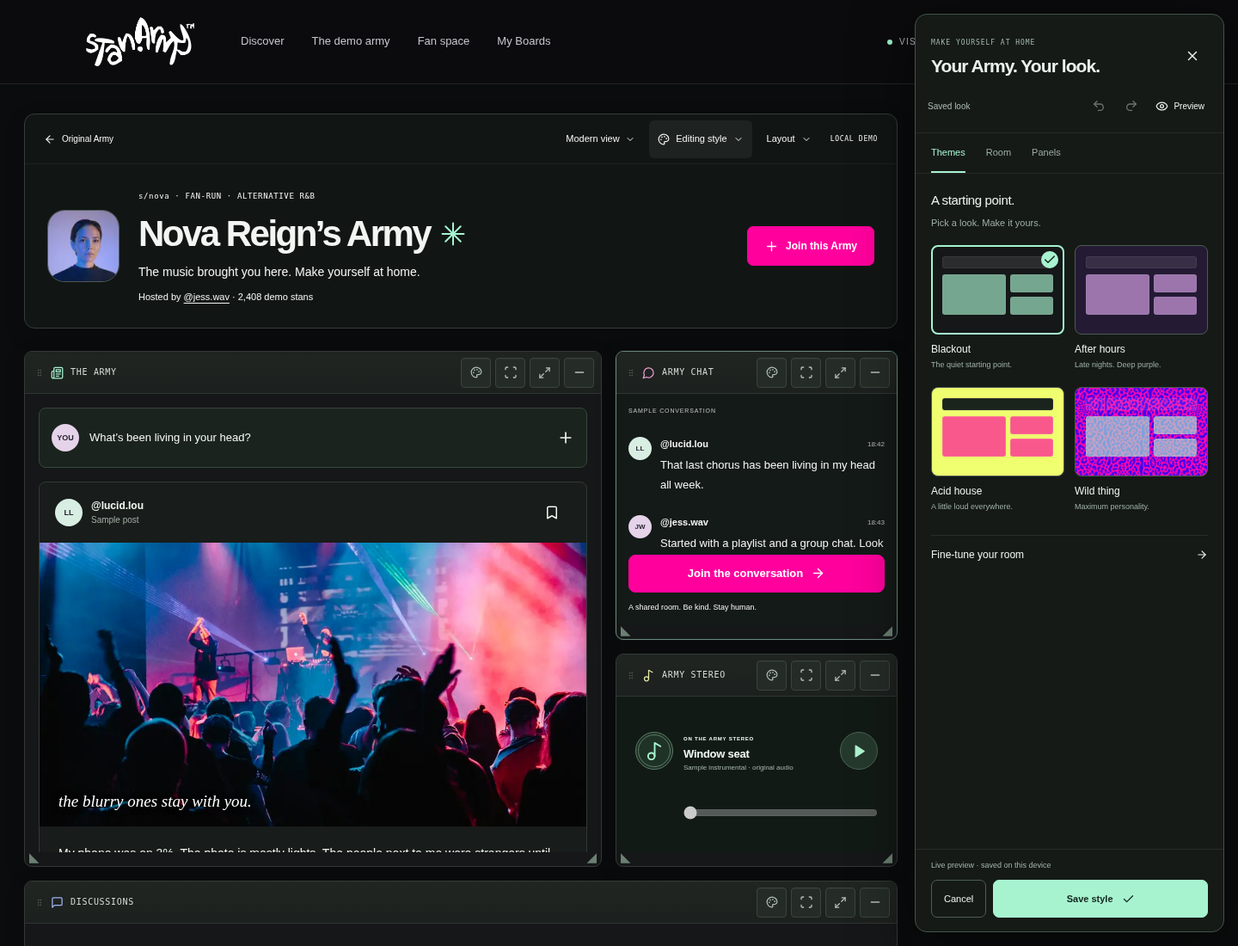
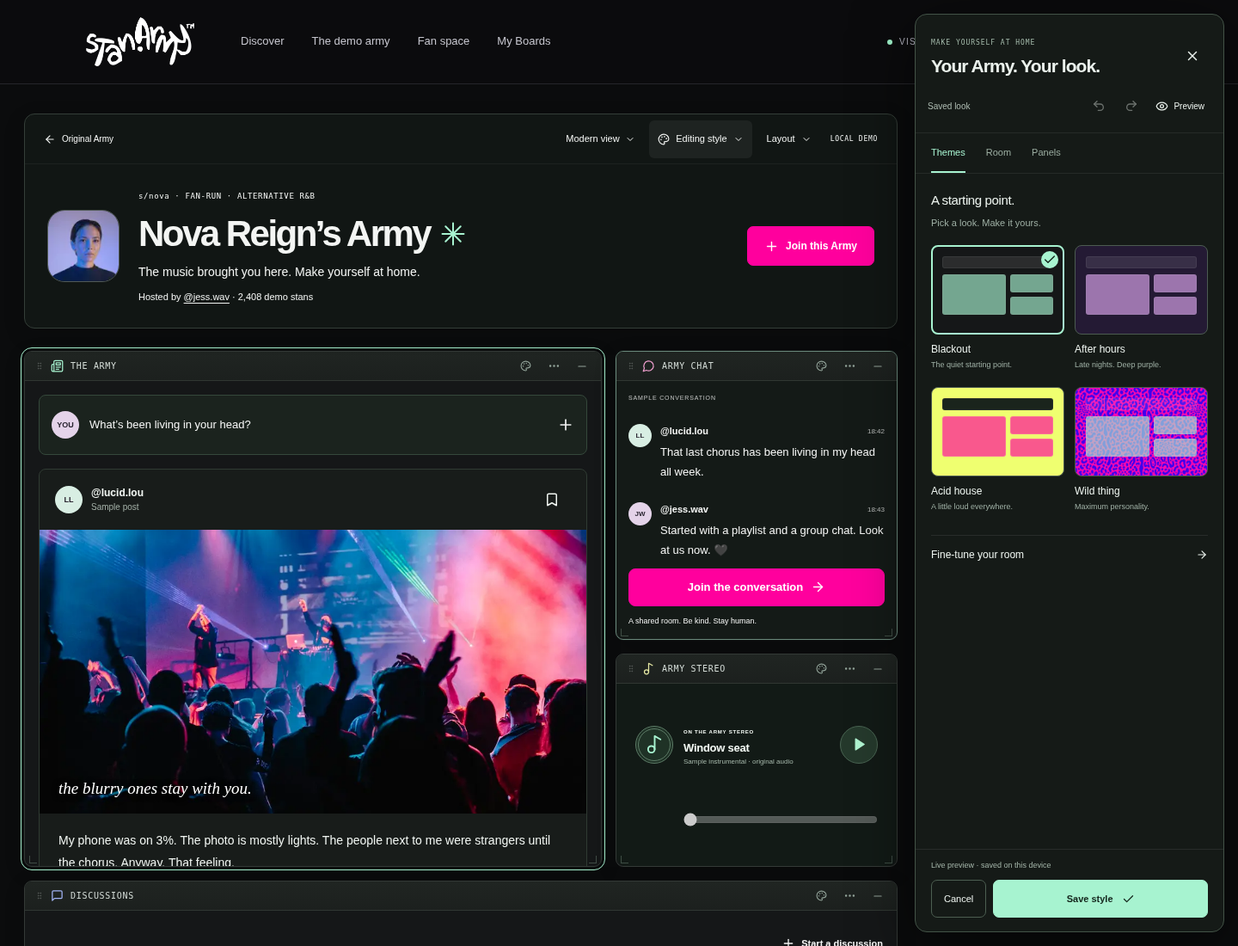
Slim panel controls and make individual panel styling directly accessible

diff --git a/src/components/army-desktop-playground.tsx b/src/components/army-desktop-playground.tsx
@@ -4,7 +4,7 @@ import Image from "next/image";
 import Link from "next/link";
 import { useEffect, useMemo, useRef, useState, useSyncExternalStore } from "react";
 import type { CSSProperties, KeyboardEvent, PointerEvent } from "react";
-import { ArrowDown, ArrowLeft, ArrowUpRight, Check, ChevronDown, GripVertical, Maximize2, MessageCircle, MessageSquare, Minus, Music2, Newspaper, Palette, Plus, RotateCcw, Scan } from "lucide-react";
+import { ArrowDown, ArrowLeft, ArrowUpRight, Check, ChevronDown, GripVertical, Maximize2, MessageCircle, MessageSquare, Minus, Music2, MoreHorizontal, Newspaper, Palette, Plus, RotateCcw } from "lucide-react";
 import { useDemo } from "./demo-provider";
 import { fanNotes } from "@/lib/fan-space";
 import { DesktopChat, DesktopComposer, DesktopDiscussions, DesktopMusic, DesktopPost } from "./nova-layout-study";
@@ -54,9 +54,10 @@ export function ArmyDesktopPlayground() {
   const [draftOwner, setDraftOwner] = useState<OwnerDesktop | null>(null);
   const owner = draftOwner ?? committedOwner;
   const [editorVisible, setEditorVisible] = useState(false);
-  const [styleScope, setStyleScope] = useState<StyleScope>("all");
+  const [styleScope, setStyleScope] = useState<StyleScope>("feed");
   const [styleSection, setStyleSection] = useState<StyleSection>("themes");
   const styleTrigger = useRef<HTMLButtonElement>(null);
+  const styleReturn = useRef<HTMLElement | null>(null);
   const savedLayout = useMemo(() => parseDesktop(personalRaw, owner.layout), [personalRaw, owner.layout]);
   const [unsavedLayout, setUnsavedLayout] = useState<DesktopLayout | null>(null);
   const layout = unsavedLayout ?? savedLayout;
@@ -94,6 +95,7 @@ export function ArmyDesktopPlayground() {
     } catch { setUnsavedOwner(next); setWarning(true); setNotice("Host changes are visible for this visit but could not be saved."); }
   }
   function openStyle(id?: PanelId) {
+    if (!editorVisible || id) styleReturn.current = document.activeElement instanceof HTMLElement ? document.activeElement : styleTrigger.current;
     finish(false); setFocused(null);
     if (!draftOwner) setDraftOwner(structuredClone(committedOwner));
     if (id) { setStyleScope(id); setStyleSection("panels"); }
@@ -101,7 +103,11 @@ export function ArmyDesktopPlayground() {
   }
   function hideStyle() {
     setEditorVisible(false);
-    requestAnimationFrame(() => styleTrigger.current?.focus());
+    requestAnimationFrame(() => {
+      const origin = styleReturn.current;
+      if (origin?.isConnected && !origin.closest("[hidden]")) origin.focus();
+      else styleTrigger.current?.focus();
+    });
   }
   function cancelStyle() { setDraftOwner(null); hideStyle(); }
   function commitStyle(next: OwnerDesktop) {
@@ -229,7 +235,7 @@ export function ArmyDesktopPlayground() {
       backgroundPosition: owner.room.image ? `center ${owner.room.position}` : undefined,
     } as CSSProperties}
     onKeyDown={(event) => { if (event.key === "Escape") { if (gesture.current) finish(false); else if (editorVisible) hideStyle(); else {
-      const openMenu = event.currentTarget.querySelector<HTMLDetailsElement>("details[open]");
+      const openMenu = Array.from(event.currentTarget.querySelectorAll<HTMLDetailsElement>("details[open]")).find((menu) => menu.querySelector("summary")?.getClientRects().length);
       if (openMenu) { openMenu.open = false; openMenu.querySelector("summary")?.focus(); }
       else if (focused) setFocused(null);
     } } }}>
@@ -263,7 +269,7 @@ export function ArmyDesktopPlayground() {
           const visiblePlacement = placement;
           return <section key={id} ref={(element) => { frames.current[id] = element; }} hidden={hidden}
             className={`${s.window} ${active === id ? s.active : ""} ${preview?.id === id ? s.moving : ""}`}
-            data-panel-id={id} data-window-colour={owner.windows[id].colour} data-window-skin={owner.windows[id].skin} data-panel-surface={owner.windows[id].surface} data-panel-typeface={owner.windows[id].typeface} data-expanded={focused === id ? "true" : undefined} aria-labelledby={`window-title-${id}`}
+            data-panel-id={id} data-style-selected={editorVisible && styleScope === id ? "true" : undefined} data-window-colour={owner.windows[id].colour} data-window-skin={owner.windows[id].skin} data-panel-surface={owner.windows[id].surface} data-panel-typeface={owner.windows[id].typeface} data-expanded={focused === id ? "true" : undefined} aria-labelledby={`window-title-${id}`}
             style={{ ...(owner.windows[id].surface === "custom" ? {
                 "--surface-bg": owner.windows[id].customSurface,
                 "--surface-ink": readableColor("#f3f4f3", owner.windows[id].customSurface),
@@ -281,20 +287,23 @@ export function ArmyDesktopPlayground() {
                 onKeyDown={(event) => keys(event, id)} title="Drag to move · arrow keys to reorder">
                 <GripVertical className={s.grip} size={15} /><Icon size={17} /><span className={s.windowTitle}>{names[id]}</span>
               </button>
-              {draftOwner && <button className={s.windowControl} aria-label={`Edit ${names[id]} style`} title="Edit this panel" onClick={() => openStyle(id)}><Palette size={14} /></button>}
+              <button className={s.windowControl} aria-label={`Edit ${names[id]} style`} title={`Style ${names[id]}`} onClick={() => openStyle(id)}><Palette size={13} /></button>
               <details className={s.windowMenu} onKeyDown={(event) => {
-                if (event.key === "Escape") { event.stopPropagation(); event.currentTarget.open = false; event.currentTarget.querySelector("summary")?.focus(); }
+                if (event.key === "Escape" && event.currentTarget.open) { event.stopPropagation(); for (const submenu of event.currentTarget.querySelectorAll("details[open]")) submenu.removeAttribute("open"); event.currentTarget.open = false; event.currentTarget.querySelector("summary")?.focus(); }
               }}>
-                <summary aria-label={`Size and position ${names[id]}`} title="Size & position"><Scan size={16} /></summary>
+                <summary aria-label={`Panel options ${names[id]}`} title="Panel options"><MoreHorizontal size={15} /></summary>
                 <div>
+                  <button aria-label={`${focused === id ? "Restore" : "Expand"} ${names[id]}`} onClick={(event) => { const menu = event.currentTarget.closest("details"); const trigger = menu?.querySelector("summary"); for (const submenu of menu?.querySelectorAll("details[open]") ?? []) submenu.removeAttribute("open"); menu?.removeAttribute("open"); trigger?.focus({preventScroll:true}); setFocused(focused === id ? null : id); setActive(id); requestAnimationFrame(() => { frames.current[id]?.scrollIntoView({block:"nearest", behavior:"instant"}); }); }}><Maximize2 size={14} />{focused === id ? "Restore size" : "Expand panel"}</button>
+                  <details className={s.sizeOptions}><summary aria-label={`Size and position ${names[id]}`}>Size & position<ChevronDown size={13} /></summary><div>
                   <label>Window width<select aria-label={`${names[id]} width`} disabled={!desktop || !!focused} value={size.width} onChange={(event) => resize(id, Number(event.target.value))}>{Array.from({ length: 9 }, (_, index) => index + 4).map((width) => <option value={width} key={width}>{width}/12{width === 4 ? " · narrow" : width === 8 ? " · wide" : width === 12 ? " · full" : ""}</option>)}</select></label>
                   <label>Window height<select aria-label={`${names[id]} height`} disabled={!desktop || !!focused} value={size.height} onChange={(event) => resize(id, size.width, Number(event.target.value))}>{Array.from({ length: 6 }, (_, index) => index + 3).map((height) => <option value={height} key={height}>{height} rows</option>)}</select></label>
                   <button disabled={layout.order.indexOf(id) === 0} onClick={() => move(id, layout.order.indexOf(id) - 1)}><ArrowLeft size={15} />Move earlier</button>
                   <button disabled={layout.order.indexOf(id) === layout.order.length - 1} onClick={() => move(id, layout.order.indexOf(id) + 1)}><ArrowDown size={15} />Move later</button>
+                  </div></details>
                 </div>
               </details>
-              <button className={s.windowControl} aria-label={`${focused === id ? "Restore" : "Expand"} ${names[id]}`} onClick={() => { setFocused(focused === id ? null : id); setActive(id); requestAnimationFrame(() => frames.current[id]?.scrollIntoView({block:"nearest", behavior:"instant"})); }}><Maximize2 size={15} /></button>
-              <button className={s.windowControl} aria-label={`Minimize ${names[id]}`} onClick={() => minimize(id)}><Minus size={16} /></button>
+
+              <button className={s.windowControl} aria-label={`Minimize ${names[id]}`} onClick={() => minimize(id)}><Minus size={14} /></button>
             </header>
             <div className={s.windowBody} data-window-content={id}>
               {id === "feed" && <div className={s.feedContents}><DesktopComposer joined={joined} join={join} />{[...(demo.notes["army-nova"] ?? []), fanNotes[1], fanNotes[0], fanNotes[2], fanNotes[3]].map((note) => <DesktopPost key={note.id} note={note} />)}<Link className={s.archive} href="/armies/nova/posts">View all posts <ArrowUpRight size={16} /></Link></div>}
@@ -305,11 +314,11 @@ export function ArmyDesktopPlayground() {
             {!focused && <button className={`${s.resizeHandle} ${s.resizeLeft}`} aria-label={`Resize ${names[id]} from left`} aria-describedby="desktop-key-help" title="Drag left to make this window wider"
               onPointerDown={(event) => start(event, id, "resize-left")} onPointerMove={track}
               onPointerUp={() => finish(true)} onPointerCancel={() => finish(false)} onLostPointerCapture={() => { if (gesture.current) finish(false); }}
-              onKeyDown={(event) => keys(event, id, true)}><span aria-hidden="true">◢</span></button>}
+              onKeyDown={(event) => keys(event, id, true)}><span aria-hidden="true" /></button>}
             {!focused && <button className={s.resizeHandle} aria-label={`Resize ${names[id]}`} aria-describedby="desktop-key-help" title="Drag to resize · arrow keys to resize"
               onPointerDown={(event) => start(event, id, "resize")} onPointerMove={track}
               onPointerUp={() => finish(true)} onPointerCancel={() => finish(false)} onLostPointerCapture={() => { if (gesture.current) finish(false); }}
-              onKeyDown={(event) => keys(event, id, true)}><span aria-hidden="true">◢</span></button>}
+              onKeyDown={(event) => keys(event, id, true)}><span aria-hidden="true" /></button>}
           </section>;
         })}
         {ghost && <div className={s.ghost} data-drop-preview aria-hidden="true" style={{ gridColumn: `${ghost.x + 1} / span ${ghost.width}`, gridRow: `${ghost.y + 1} / span ${ghost.height}` }} /> }

diff --git a/src/components/army-desktop-playground.module.css b/src/components/army-desktop-playground.module.css
@@ -49,14 +49,14 @@
 .window.active { border-color:var(--accent); box-shadow:0 6px 24px #15082240; }
 .window:has(.windowMenu[open]) { z-index:30; }
 .moving { box-shadow:0 12px 36px #15082255; }
-.titlebar { display:flex; align-items:center; gap:3px; min-height:49px; padding:0 6px; border-bottom:1px solid #39244615; border-radius:11px 11px 0 0; background:var(--window-tint); color:#282131; flex-shrink:0; }
-.dragHandle { display:flex; align-items:center; gap:7px; flex:1; min-width:0; min-height:44px; border:0; border-radius:7px; background:transparent; color:inherit; padding:8px 4px; text-align:left; cursor:grab; touch-action:none; user-select:none; }
+.titlebar { position:relative; display:flex; align-items:center; gap:3px; min-height:34px; padding:0 6px; border-bottom:1px solid #39244615; border-radius:11px 11px 0 0; background:var(--window-tint); color:#282131; flex-shrink:0; }
+.dragHandle { display:flex; align-items:center; gap:7px; flex:1; min-width:0; min-height:30px; border:0; border-radius:4px; background:transparent; color:inherit; padding:4px; text-align:left; cursor:grab; touch-action:none; user-select:none; }
 .dragHandle:active { cursor:grabbing; }
 .dragHandle > svg { flex-shrink:0; }
 .dragHandle > svg:not(.grip) { color:var(--accent); }
 .grip { opacity:.35; }
 .windowTitle { font:600 13px/1.3 Arial,sans-serif; letter-spacing:-.015em; white-space:nowrap; overflow:hidden; text-overflow:ellipsis; }
-.windowControl,.windowMenu > summary { display:inline-flex; align-items:center; justify-content:center; flex-shrink:0; width:44px; min-height:44px; padding:8px; border:0; border-radius:7px; background:transparent; box-shadow:none; color:#63576b; cursor:pointer; }
+.windowControl,.windowMenu > summary { display:inline-flex; align-items:center; justify-content:center; flex-shrink:0; width:28px; min-height:28px; padding:5px; border:0; border-radius:4px; background:transparent; box-shadow:none; color:#63576b; cursor:pointer; }
 .windowControl:hover,.windowMenu > summary:hover { background:#2411300b; color:#241c30; }
 .window[data-window-skin=leopard] .titlebar { background-image:linear-gradient(#ffffff20,#ffffff20),url('/decorations/stan-leopard-dense.png'); background-size:auto,260px; }
 .window[data-window-skin=grid] .titlebar { background-color:var(--window-tint); background-image:linear-gradient(90deg,#76628520 1px,transparent 1px),linear-gradient(#76628520 1px,transparent 1px); background-size:12px 12px; }
@@ -64,12 +64,12 @@
 .windowMenu { position:static; flex-shrink:0; }
 .windowMenu > summary { list-style:none; }
 .windowMenu > summary::-webkit-details-marker { display:none; }
-.windowMenu > div { position:absolute; right:8px; top:54px; width:230px; background:var(--paper); color:var(--ink); border:1px solid var(--rule); border-radius:10px; padding:14px; box-shadow:0 10px 30px #180b2a40; z-index:40; }
+.windowMenu > div { position:absolute; right:6px; top:calc(100% + 6px); width:230px; background:var(--paper); color:var(--ink); border:1px solid var(--rule); border-radius:10px; padding:14px; box-shadow:0 10px 30px #180b2a40; z-index:40; }
 .windowMenu label { display:flex; flex-direction:column; gap:4px; font-size:11px; margin-bottom:10px; }
 .windowMenu select { min-height:44px; padding:8px; border:1px solid #d3c5dc; border-radius:6px; background:#fff; font-size:12px; }
 .windowMenu button { display:flex; align-items:center; gap:8px; min-height:44px; width:100%; background:transparent; border:0; padding:8px 0; font-size:12px; }
 .windowBody { flex:1; min-height:0; min-width:0; overflow:auto; overscroll-behavior:contain; padding:14px; border-radius:0 0 11px 11px; font-size:13px; scrollbar-width:thin; background:var(--paper); }
-.window:has(.resizeHandle) .windowBody { margin-bottom:16px; }
+.window:has(.resizeHandle) .windowBody { margin-bottom:0; }
 .windowBody :is(button,input,textarea,select) { font-family:Arial,Helvetica,sans-serif; }
 .feedContents { display:flex; flex-direction:column; gap:16px; }
 .feedContents > section { margin:0; }
@@ -89,8 +89,8 @@
 .windowBody [data-board-search] { min-width:90px; max-width:160px; flex:1; margin-left:auto; }
 .windowBody [data-board-actions] > button { margin-left:auto; }
 .windowBody :is(input,textarea) { max-width:100%; }
-.resizeHandle { position:absolute; right:0; bottom:0; display:flex; align-items:flex-end; justify-content:flex-end; width:44px; height:28px; border:0; border-radius:0 0 10px 0; background:transparent; padding:0 5px 3px 0; color:#aa9caf; cursor:nwse-resize; touch-action:none; }
-.resizeHandle > span { font-size:15px; line-height:1; }
+.resizeHandle { position:absolute; right:0; bottom:0; display:flex; align-items:flex-end; justify-content:flex-end; width:24px; height:24px; border:0; border-radius:0 0 10px 0; background:transparent; padding:0 5px 3px 0; color:#aa9caf; cursor:nwse-resize; touch-action:none; }
+.resizeHandle > span { width:9px; height:9px; border-right:1px solid currentColor; border-bottom:1px solid currentColor; opacity:.5; }
 .resizeHandle:hover { color:var(--accent); }
 .resizeLeft { left:0; right:auto; padding:0 0 3px 5px; justify-content:flex-start; cursor:nesw-resize; border-radius:0 0 0 10px; }
 .resizeLeft > span { transform:scaleX(-1); }
@@ -159,13 +159,13 @@
 .desktop[data-interface=modern] .window[data-window-colour=yellow] { --accent:#e6e9a4; }
 .desktop[data-interface=modern] .window[data-window-colour=neutral] { --accent:#bfc9c4; }
 .desktop[data-interface=modern] .window.active { border-color:#6a897b; box-shadow:0 0 0 1px #a7f3d00c,0 8px 26px #0003; }
-.desktop[data-interface=modern] .titlebar { background:linear-gradient(#202522,#1c201e); color:#d2dad5; border-bottom:1px solid #303732; border-radius:8px 8px 0 0; padding:0 8px; gap:5px; min-height:49px; }
+.desktop[data-interface=modern] .titlebar { background:linear-gradient(#202522,#1c201e); color:#d2dad5; border-bottom:1px solid #303732; border-radius:8px 8px 0 0; padding:0 8px; gap:5px; min-height:34px; }
 .desktop[data-interface=modern] .windowTitle { font:500 10px/1.4 ui-monospace,SFMono-Regular,Consolas,monospace; text-transform:uppercase; letter-spacing:.07em; }
 .desktop[data-interface=modern] .grip { opacity:.4; width:10px; }
 .desktop[data-interface=modern] .dragHandle { gap:8px; }
 .desktop[data-interface=modern] .dragHandle > svg:not(.grip) { width:15px; height:15px; }
-.desktop[data-interface=modern] .windowControl,.desktop[data-interface=modern] .windowMenu > summary { width:35px; min-height:35px; border:1px solid #3b443e; border-radius:4px; color:#b5c2b9; background:#252c27; box-shadow:0 1px 0 #ffffff08 inset; }
-.desktop[data-interface=modern] .windowControl:hover,.desktop[data-interface=modern] .windowMenu > summary:hover { background:#35443a; color:#c4fbe0; }
+.desktop[data-interface=modern] .windowControl,.desktop[data-interface=modern] .windowMenu > summary { width:28px; min-height:28px; border:0; border-radius:4px; color:#93a49a; background:transparent; box-shadow:none; }
+.desktop[data-interface=modern] .windowControl:hover,.desktop[data-interface=modern] .windowMenu > summary:hover { background:#ffffff0b; color:#c4fbe0; }
 .desktop[data-interface=modern] .window[data-window-skin=leopard] .titlebar { background-image:linear-gradient(#0008,#0008),url('/decorations/stan-leopard-dense.png'); background-size:auto,260px; }
 .desktop[data-interface=modern] .window[data-window-skin=grid] .titlebar { background-image:linear-gradient(90deg,#a7f3d015 1px,transparent 1px),linear-gradient(#a7f3d015 1px,transparent 1px); background-size:10px 10px; }
 .desktop[data-interface=modern] .window[data-window-skin=leopard] .dragHandle { background:#202622; }
@@ -194,7 +194,7 @@
 .desktop[data-interface=modern] .dock > button:hover { background:#354c3d; }
 .desktop[data-interface=modern] .communityInvite { background:#f5ff64; border:0; border-radius:9px; margin-top:28px; }
 .desktop[data-interface=modern] .communityInvite > svg { color:#bf4b91; }
-@media (max-width:999px) { .desktop[data-interface=modern] .windowControl,.desktop[data-interface=modern] .windowMenu > summary { width:44px; min-height:44px; } }
+@media (any-pointer:coarse) { .desktop[data-interface] .windowControl,.desktop[data-interface] .windowMenu > summary { width:44px; min-height:44px; } .desktop .dragHandle { min-height:44px; } }
 @media (max-width:650px) { .breadcrumb { flex-wrap:wrap; gap:8px; } .breadcrumb > span { display:none; } .viewSwitch { margin-left:auto; } .desktop[data-interface=modern] .identity { padding:20px 0 10px; gap:13px; } .desktop[data-interface=modern] .identity > img { width:56px; height:56px; border-radius:14px; } .desktop[data-interface=modern] .identity h1 { font-size:28px; margin-top:9px; } .desktop[data-interface=modern] .eyebrow { font-size:6px; } .desktop[data-interface=modern] .identity p { font-size:12px; } .desktop[data-interface=modern] .identity small { font-size:10px; } .desktop[data-interface=modern] .tools { padding:4px 0 14px; } .desktop[data-interface=modern] .windowBody { padding:12px; } .desktop[data-interface=modern] .windowTitle { font-size:9px; letter-spacing:.025em; } .desktop[data-interface=modern] .titlebar { gap:2px; padding-inline:5px; } .communityInvite { padding:20px; gap:12px; flex-wrap:wrap; } .communityInvite strong { font-size:26px; } .communityInvite a { flex-basis:100%; margin-left:42px; justify-content:flex-start; } .dock > button { flex:0 1 auto; min-width:44px; padding:8px; } .dock > button > span { display:inline; font-size:10px; } .dock { bottom:10px; } }
 
 /* Owners can make the room loud without changing how its windows work. */
@@ -283,3 +283,12 @@
 .desktop[data-header-typeface=mono] .armyHeader .identity h1 { letter-spacing:-.045em; }
 .desktop[data-room-style=black] { background-color:var(--page-colour,#0b0c0d); background-image:none; }
 .desktop .join { background:var(--button-colour,#ff009d); border-color:var(--button-colour,#ff009d); color:var(--button-ink,#fff); }
+
+/* Compact chrome; panel content owns the space. */
+.sizeOptions { border-top:1px solid var(--rule); }
+.sizeOptions > summary { display:flex; align-items:center; justify-content:space-between; gap:12px; min-height:40px; font-size:12px; cursor:pointer; list-style:none; }
+.sizeOptions > summary::-webkit-details-marker { display:none; }
+.sizeOptions > div { padding-top:10px; }
+.window[data-style-selected=true] { outline:1px solid #a7f3d0; outline-offset:3px; }
+.desktop .windowControl:hover,.desktop .windowMenu > summary:hover { background:#80808014; }
+.resizeHandle:focus-visible > span,.window:hover .resizeHandle > span { opacity:1; }

diff --git a/src/components/army-style-editor.tsx b/src/components/army-style-editor.tsx
@@ -105,7 +105,7 @@ export function ArmyStyleEditor({ initial, visible, scope, section, onScope, onS
         <label className={s.field}>Window frame<select aria-label="Window frame" value={value.frame} onChange={(e) => update({ ...value, frame: e.target.value as OwnerDesktop["frame"] })}><option value="minimal">Minimal</option><option value="classic">Retro bevel</option></select></label>
       </section>}
       {section === "panels" && <section id="style-section-panels" role="tabpanel" aria-labelledby="style-tab-panels">
-        <label className={s.field}>Style<select aria-label="Style window" value={scope} onChange={(e) => onScope(e.target.value as StyleScope)}><option value="all">All panels</option>{PANEL_IDS.map((id) => <option key={id} value={id}>{names[id]}</option>)}</select></label>
+        <label className={s.field}>Editing panel<select aria-label="Style window" value={scope} onChange={(e) => onScope(e.target.value as StyleScope)}>{PANEL_IDS.map((id) => <option key={id} value={id}>{names[id]}</option>)}<option value="all">All panels together</option></select></label>
         <h3>{scope === "all" ? "Together, or totally different." : names[scope]}</h3>
         <p className={s.label}>Panel colour{!same("surface") && <small>Mixed</small>}</p><div className={s.swatches}>{surfaces.map(([surface, label, colour]) => <button key={surface} aria-label={`${label} panel colour`} aria-pressed={same("surface") && first.surface === surface} title={label} style={{ "--swatch": colour } as CSSProperties} onClick={() => editPanels({ surface })}><Check size={15} /></button>)}</div>
         <Colour label="Custom panel colour" value={first.customSurface} onChange={(customSurface) => editPanels({ surface: "custom", customSurface })} />

diff --git a/docs/ARMY_DESKTOP_PLAYGROUND.md b/docs/ARMY_DESKTOP_PLAYGROUND.md
@@ -10,13 +10,13 @@ Dropping a title bar onto another window exchanges their actual spaces, includin
 
 Only the explicit minimise control hides a window. A compact fixed tray appears only when windows are minimised. Its buttons restore windows; restored windows leave the tray, which disappears when empty. The permanent dock has been removed. Minimising preserves neighbours’ coordinates. Restoring into a space that has since been occupied finds another free slot rather than moving visible windows. Expanding temporarily widens a window and makes room around it; other windows remain visible. Restore layout/Escape returns to the saved geometry. Content remains mounted, preserving drafts and audio during rearrangements and minimising.
 
-Below 1000px windows stack in their saved reading order. Dragging/resizing are disabled; order controls remain available. Desktop geometry is preserved. Arrow keys on title bars exchange spaces on desktop or change the reading order on mobile. Shift+arrows and corner arrow keys resize. Menus provide alternatives to dragging.
+Below 1000px windows stack in their saved reading order. Dragging/resizing are disabled; order controls remain available. Desktop geometry is preserved. Arrow keys on title bars exchange spaces on desktop or change the reading order on mobile. Shift+arrows and corner arrow keys resize. Menus provide alternatives to dragging. Compact desktop title bars are 34px high with unboxed 28px actions. Expand lives in the overflow menu, and exact sizing/reordering is disclosed under Size & position. The old reserved resize footer is removed, reclaiming about 31px vertically for content. Corner grips are subtle 24px targets. Coarse-pointer controls retain 44px targets. Menu expansion restores focus to its visible trigger so Escape can reliably return to the normal layout.
 
 ## Appearance and discovery
 
 The default Modern view is near-black with mint details, hot-pink actions, restrained retro window controls and a yellow MAKE SOME NOISE invitation. The opaque header groups identity, the Modern/Original view selector, Army style and Layout. Platform navigation retains the Stan Army brand. The permanent dock is replaced by a compact tray containing only minimised windows.
 
-Army style opens a visual inspector: Themes, Room and Panels. Four illustrated starting themes preserve layout. Room controls provide background colour/presets, a validated raster upload with fill/tile/focus/dimming, button and header colours, header typography, window corners and retro/minimal frames. Panels can be styled together or individually using swatches/custom colours, title accents, fonts and title-bar skins. During editing, each window has a direct palette control. Light/custom surfaces choose readable text automatically; frame controls stay consistent. A chunky header uses tracking suited to its font rather than the clean font's tight spacing.
+Army style opens a visual inspector: Themes, Room and Panels. Four illustrated starting themes preserve layout. Room controls provide background colour/presets, a validated raster upload with fill/tile/focus/dimming, button and header colours, header typography, window corners and retro/minimal frames. Panels can be styled together or individually using swatches/custom colours, title accents, fonts and title-bar skins. Each window always has a direct palette control: it opens the inspector on that individual panel, highlights its frame, and returns keyboard focus to the originating control on Save/Cancel/Preview. The panel selector starts with an individual panel; All panels together remains an explicit option. Light/custom surfaces choose readable text automatically; frame controls stay consistent. A chunky header uses tracking suited to its font rather than the clean font's tight spacing.
 
 Edits preview as a separate draft. Undo/redo retains up to forty steps. Preview or Escape hides the inspector without discarding its draft/history. Reopening continues that session; Cancel restores the committed appearance, and Save style persists only the chosen appearance. Layout actions are disabled during a style draft. On wide screens the preview makes room for the inspector; smaller screens use a bottom sheet. The editor heading receives focus on open and the trigger regains focus on close. Section tabs support arrow/Home/End navigation. The nonmodal editor leaves preview interaction available.
 

diff --git a/docs/ARMY_CUSTOMISATION_RESEARCH.md b/docs/ARMY_CUSTOMISATION_RESEARCH.md
@@ -22,7 +22,7 @@ The page starts black and sleek. The header's Army style control opens an editor
 | Room | The shared atmosphere | Background preset/colour, own raster image or GIF, tiling/fill, image focus and dimming; button colour; header colour/typeface; window corners and frame |
 | Panels | Individual personality | All panels or one panel; colour swatches and custom colour, title accent, typeface, header skin |
 
-Panel controls include clean, terminal, chunky and editorial typefaces. A palette button on a window, available during editing, opens that window's settings directly. Controls outside the Army retain the platform typography. The page header stays opaque and readable over any background. Individual surfaces select readable text automatically; no arbitrary CSS, scripts or remote image addresses enter the schema.
+Panel controls include clean, terminal, chunky and editorial typefaces. A small palette button on each window opens that individual window's settings directly, even before entering editing mode. The selected window is outlined; all-panel styling is an explicit alternative in the selector. Controls outside the Army retain the platform typography. The page header stays opaque and readable over any background. Individual surfaces select readable text automatically; no arbitrary CSS, scripts or remote image addresses enter the schema.
 
 Preview is immediate. Undo/redo allows experimentation, including recovering from a preset change. Preview/Escape hides the editor while retaining the draft and undo history; reopening continues the same session. Cancel restores the saved appearance. Save style persists the chosen appearance on this device. Neither preset selection nor saving style moves, hides or resizes community windows. The host's stored starting layout is distinct from personal layout preferences. Layout-default actions are disabled during an appearance draft to avoid mixing those operations.
 
